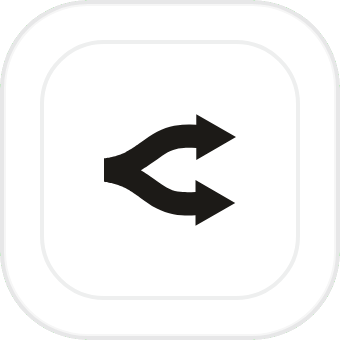
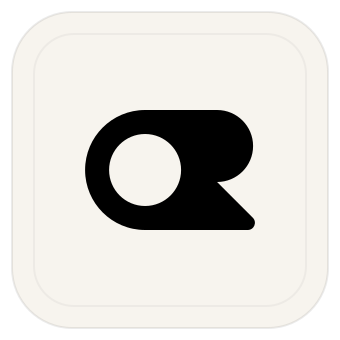
Landing and sky polish: official OpenRouter mark, brand-coloured marks and tiles (Gmail and Telegram join the pile), gold antenna on the moonlet mark, dither band across the top of the sky

diff --git a/src/components/marks.tsx b/src/components/marks.tsx
@@ -8,7 +8,8 @@ import Image from "next/image";
  *   orbio: orbio.so/icon.png
  *   discord, telegram, x, github: simple-icons (CC0)
  *   gmail: Google's Gmail mark geometry, brand colours
- * Monochrome marks inherit text colour; brand-coloured ones render as-is.
+ * Brand colours where the brand has one (Telegram blue, Discord blurple, Robinhood green, Anthropic clay);
+ * GitHub, X and OpenRouter are black marks by design and inherit text colour.
  */
 
 type P = { size?: number; className?: string };
@@ -17,13 +18,14 @@ function Img({ src, alt, size = 16, className }: P & { src: string; alt: string 
   return <Image src={src} alt={alt} width={size} height={size} className={className} unoptimized />;
 }
 
-function Mono({ src, size = 16, className, label }: P & { src: string; label: string }) {
+/** A single-colour mark in its brand colour (inherits text colour when no colour is given). */
+function Mono({ src, size = 16, className, label, color }: P & { src: string; label: string; color?: string }) {
   return (
     <span
       role="img"
       aria-label={label}
-      className={`inline-block shrink-0 bg-current ${className ?? ""}`}
-      style={{ width: size, height: size, maskImage: `url(${src})`, WebkitMaskImage: `url(${src})`, maskSize: "contain", WebkitMaskSize: "contain", maskRepeat: "no-repeat", WebkitMaskRepeat: "no-repeat", maskPosition: "center", WebkitMaskPosition: "center" }}
+      className={`inline-block shrink-0 ${color ? "" : "bg-current"} ${className ?? ""}`}
+      style={{ width: size, height: size, ...(color ? { backgroundColor: color } : {}), maskImage: `url(${src})`, WebkitMaskImage: `url(${src})`, maskSize: "contain", WebkitMaskSize: "contain", maskRepeat: "no-repeat", WebkitMaskRepeat: "no-repeat", maskPosition: "center", WebkitMaskPosition: "center" }}
     />
   );
 }
@@ -36,12 +38,12 @@ export const OpenAIMark = (p: P) => <Img src="/brands/openai.svg" alt="OpenAI" {
 export const OrbioMark = (p: P) => <Img src="/brands/orbio.png" alt="Orbio" {...p} />;
 
 export const OpenRouterMark = (p: P) => <Mono src="/brands/openrouter.svg" label="OpenRouter" {...p} />;
-export const RobinhoodMark = (p: P) => <Mono src="/brands/robinhood.svg" label="Robinhood" {...p} />;
-export const AnthropicMark = (p: P) => <Mono src="/brands/anthropic.svg" label="Anthropic" {...p} />;
+export const RobinhoodMark = (p: P) => <Mono src="/brands/robinhood.svg" label="Robinhood" color="#00C805" {...p} />;
+export const AnthropicMark = (p: P) => <Mono src="/brands/anthropic.svg" label="Anthropic" color="#D97757" {...p} />;
 export const GitHubMark = (p: P) => <Mono src="/brands/github.svg" label="GitHub" {...p} />;
-export const TelegramMark = (p: P) => <Mono src="/brands/telegram.svg" label="Telegram" {...p} />;
+export const TelegramMark = (p: P) => <Mono src="/brands/telegram.svg" label="Telegram" color="#26A5E4" {...p} />;
 export const XMark = (p: P) => <Mono src="/brands/x.svg" label="X" {...p} />;
-export const DiscordMark = (p: P) => <Mono src="/brands/discord.svg" label="Discord" {...p} />;
+export const DiscordMark = (p: P) => <Mono src="/brands/discord.svg" label="Discord" color="#5865F2" {...p} />;
 export const GmailMark = (p: P) => <Img src="/brands/gmail.svg" alt="Gmail" {...p} />;
 
 /** Auto routing is OpenRouter picking the model, so it wears OpenRouter's mark. */

diff --git a/src/components/dither-field.tsx b/src/components/dither-field.tsx
@@ -9,7 +9,7 @@ import { Dithering } from "@paper-design/shaders-react";
  * multiplied onto the page). Anchored to the right edge and dissolving toward
  * the left, so it reads as a texture the hero emerges from, not a background.
  */
-export function DitherField({ className, from = "right" }: { className?: string; from?: "left" | "right" | "around" }) {
+export function DitherField({ className, from = "right" }: { className?: string; from?: "left" | "right" | "around" | "top" }) {
   const [ready, setReady] = useState<"webgl" | "css" | null>(null);
   const [reduced, setReduced] = useState(false);
   useEffect(() => {
@@ -26,9 +26,9 @@ export function DitherField({ className, from = "right" }: { className?: string;
     };
   }, []);
   if (!ready) return null;
-  if (ready === "css") return <div aria-hidden className={`dither-field dither-css pointer-events-none absolute ${from === "left" ? "dither-left" : from === "around" ? "dither-around" : ""} ${className ?? ""}`} />;
+  if (ready === "css") return <div aria-hidden className={`dither-field dither-css pointer-events-none absolute ${from === "left" ? "dither-left" : from === "around" ? "dither-around" : from === "top" ? "dither-top" : ""} ${className ?? ""}`} />;
   return (
-    <div aria-hidden className={`dither-field pointer-events-none absolute ${from === "left" ? "dither-left" : from === "around" ? "dither-around" : ""} ${className ?? ""}`}>
+    <div aria-hidden className={`dither-field pointer-events-none absolute ${from === "left" ? "dither-left" : from === "around" ? "dither-around" : from === "top" ? "dither-top" : ""} ${className ?? ""}`}>
       <Dithering
         style={{ width: "100%", height: "100%" }}
         // Paper Shaders renders at 2x device pixels by default: 6M+ shader evaluations per frame per field, and

diff --git a/src/app/sky/page.tsx b/src/app/sky/page.tsx
@@ -1,6 +1,7 @@
 import type { Metadata } from "next";
 import Link from "next/link";
 import { PublicHeader } from "@/components/public-header";
+import { DitherField } from "@/components/dither-field";
 import { PoweredBy, PublicMobileTabs } from "@/components/app-shell";
 import { StatusDot, fuelTone } from "@/components/fuel-gauge";
 import { CADENCE_LABEL, TEMPLATE_LABEL } from "@/components/labels";
@@ -24,9 +25,12 @@ export default async function SkyPage() {
   const items: SkyItem[] = all.map((m) => ({ id: m.id, name: m.name, status: m.status, objective: m.spec.objective, template: m.spec.template, cadence: m.cadence, owner: m.owner, bag: owners.get(m.owner) ?? 0, earn: m.earnPerDayUsd, burn: m.burnPerDayUsd }));
 
   return (
-    <div className="min-h-screen bg-cream text-ink">
+    <div className="relative min-h-screen bg-cream text-ink">
+      <div aria-hidden className="pointer-events-none absolute inset-x-0 top-0 h-[22vh] min-h-[200px] overflow-hidden">
+        <DitherField className="inset-0" from="top" />
+      </div>
       <PublicHeader />
-      <main className="mx-auto max-w-[1280px] px-4 py-8 sm:px-6">
+      <main className="relative mx-auto max-w-[1280px] px-4 py-8 sm:px-6">
         <header className="flex flex-wrap items-end justify-between gap-4">
           <div>
             <h1 className="font-display text-[3.4rem] leading-[0.9] text-ink sm:text-[4.2rem]">The sky</h1>

diff --git a/src/components/tool-physics.tsx b/src/components/tool-physics.tsx
@@ -6,7 +6,7 @@ import { Bodies, Body, Composite, Engine, Events, Mouse, MouseConstraint, Render
 /* Sprites are 340px renders of a 170px tile; scaled to a 96px body. */
 const TILE = 96;
 const SPRITE_SCALE = TILE / 340;
-const SPRITES = ["moonlet", "github", "discord", "orbio", "openrouter", "robinhood"] as const;
+const SPRITES = ["moonlet", "gmail", "github", "telegram", "discord", "orbio", "openrouter", "robinhood"] as const;
 
 export function ToolPhysics({ className }: { className?: string }) {
   const host = useRef<HTMLDivElement>(null);
@@ -170,7 +170,7 @@ export function ToolPhysics({ className }: { className?: string }) {
   return (
     <div
       ref={host}
-      aria-label="Tiles for moonlet, GitHub, Discord, Orbio, OpenRouter and Robinhood Chain"
+      aria-label="Tiles for moonlet, Gmail, GitHub, Telegram, Discord, Orbio, OpenRouter and Robinhood Chain"
       role="img"
       className={`${className ?? ""} [&>canvas]:absolute [&>canvas]:inset-0 [&>canvas]:cursor-grab [&>canvas]:active:cursor-grabbing`}
     />

diff --git a/src/components/logo.tsx b/src/components/logo.tsx
@@ -6,7 +6,7 @@ type MarkProps = {
   ink?: string;
   /** Colour of the face cut-outs; set it to the surface behind the mark. */
   face?: string;
-  /** Antenna tip; defaults to the silhouette colour. */
+  /** Antenna tip; gold by default, the one spot of colour in the mark. */
   tip?: string;
   title?: string;
 };
@@ -20,13 +20,13 @@ export function MoonletMark({
   className,
   ink = "var(--ink)",
   face = "#fff",
-  tip,
+  tip = "var(--gold, #E6B64A)",
   title = "moonlet",
 }: MarkProps) {
   return (
     <svg width={size} height={size} viewBox="0 0 64 64" role="img" aria-label={title} className={className} style={{ overflow: "visible" }}>
       <path d="M45.5 18.5 L52.5 9.5" stroke={ink} strokeWidth="4.2" strokeLinecap="round" />
-      <circle cx="53.5" cy="8" r="4.6" fill={tip ?? ink} />
+      <circle cx="53.5" cy="8" r="4.6" fill={tip} />
       <circle cx="30" cy="37" r="24.5" fill={ink} />
       <circle cx="19.5" cy="28" r="2.7" fill={face} />
       <circle cx="41" cy="51" r="2.1" fill={face} />

diff --git a/src/components/rails.tsx b/src/components/rails.tsx
@@ -17,7 +17,7 @@ export function Rails() {
               Nothing to install.
             </h2>
             <p className="mt-5 max-w-[30rem] text-[16px] leading-[1.55] text-ink-soft">
-              Orbio pays for it, Robinhood Chain remembers it, and it acts through the accounts you already have. GitHub, Discord and X connect in a click; anything that speaks for you waits for your approval the first time.
+              Orbio pays for it, Robinhood Chain remembers it, and it acts through the accounts you already have. Gmail, GitHub, Telegram, Discord and X connect in a click; anything that speaks for you waits for your approval the first time.
             </p>
           </div>
 

diff --git a/src/app/globals.css b/src/app/globals.css
@@ -186,6 +186,13 @@ body {
 .dither-around {
   mask-image: radial-gradient(ellipse 62% 70% at 50% 50%, transparent 0%, transparent 42%, rgba(0, 0, 0, 0.55) 70%, black 100%);
 }
+/* A band along the top of a page: solid at the top edge, gone by the bottom of the band; softened at both sides. */
+.dither-top {
+  mask-image:
+    linear-gradient(to bottom, black 0%, black 35%, rgba(0, 0, 0, 0.5) 65%, transparent 100%),
+    linear-gradient(to right, transparent 0%, black 12%, black 88%, transparent 100%);
+  mask-composite: intersect;
+}
 /* No-WebGL fallback: a static Bayer-style dot field. */
 .dither-css {
   background-color: transparent;
